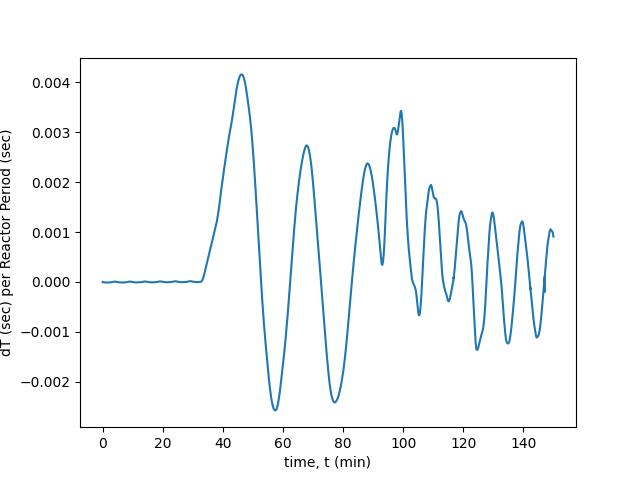
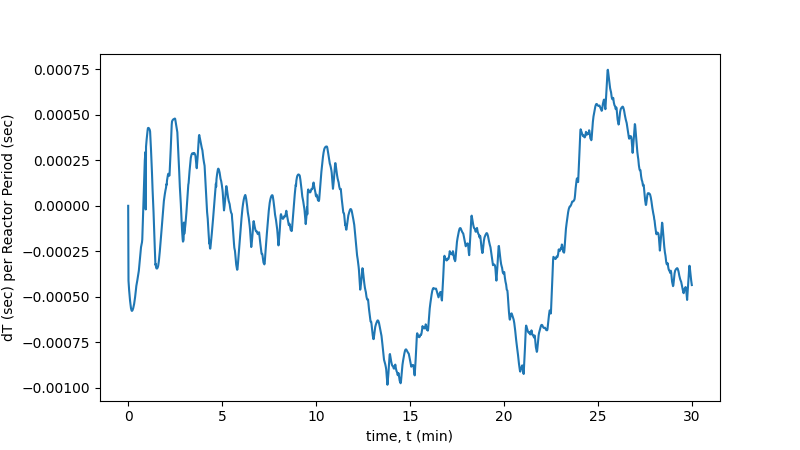
Major Plot Cleanup

diff --git a/plots.py b/plots.py
@@ -1,9 +1,12 @@
 import matplotlib.pyplot as plt
+import matplotlib as mpl
+from matplotlib.ticker import FormatStrFormatter,ScalarFormatter,FuncFormatter
+
 import numpy as np
 import glob
 from PIL import Image
 import os
-import TempProfile, functions, loop
+import TempProfile, functions, loop, control
 
 def x_vs_Tx(path,t,T_x,Tmin,Tmax):
     ymin=Tmin
@@ -24,31 +27,58 @@ def x_vs_Tx(path,t,T_x,Tmin,Tmax):
     plt.close()
 
 def t_vs_Q(t,Qhex,Qcore):
-    plt.figure()
-    plt.plot(t/60,Qhex,label='Heat Exchanger')
+    plt.figure(figsize=(8,4.5))
+    plt.gca().yaxis.set_major_formatter(FormatStrFormatter('%.2f MW'))
+    plt.plot(t/60,Qhex/1e3,label='Heat Exchanger')
     if Qcore != None:
-        plt.plot(t/60,Qcore, label='Core')
+        Qcore = np.array(Qcore)
+        plt.plot(t/60,Qcore/1e3, label='Core')
         plt.legend(loc='best')
     plt.xlabel('time, t (min)')
-    plt.ylabel('Heat Exchanger Power Demand at time t, Q_hex(t) (kW)')
+    plt.ylabel('Power duty and load vs. time')
     plt.savefig("img/t_vs_Qt.png")
     plt.clf()
     plt.close()
 
 def t_vs_reac(t,Flow,Temp,Total):
-    plt.figure()
-    plt.plot(t/60,Flow,label='Flow Reactivity')
-    plt.plot(t/60,Temp, label='Temperature Reactivity')
-    plt.plot(t/60,Total, label='Reactivity')
+    plt.figure(figsize=(8,4.5))
+    plt.gca().yaxis.set_major_formatter(FormatStrFormatter('%d pcm'))
+    Flow,Temp,Total = np.array(Flow),np.array(Temp),np.array(Total)
+    plt.plot(t/60,Flow*1e5,label='Flow Reactivity')
+    plt.plot(t/60,Temp*1e5, label='Temperature Reactivity')
+    plt.plot(t/60,Total*1e5, label='Reactivity')
     plt.xlabel('time, t (min)')
     plt.ylabel('Reactivity')
     plt.legend(loc='best')
     plt.savefig("img/t_vs_reac.png")
     plt.clf()
     plt.close()
+    
+def reac_phase(Flow,Temp):
+    plt.figure()
+    plt.gca().yaxis.set_major_formatter(FormatStrFormatter('%.d pcm'))
+    plt.gca().xaxis.set_major_formatter(FormatStrFormatter('%.d pcm'))
+    Flow,Temp = np.array(Flow)*1e5,np.array(Temp)*1e5
+    max = np.max(np.array([np.max(Temp),-np.max(Flow)]))
+    min = np.min(np.array([np.min(Temp),-np.min(Flow)]))
+    
+    plt.plot(Temp,Flow)
+    plt.plot([max,min],[-max,-min],linestyle=':',color='black')
+    plt.scatter(Temp[0],Flow[0],color='green',zorder=10)
+    plt.scatter(Temp[-1],Flow[-1],color='red',zorder=10)
+
+    plt.xlabel('Temperature Reactivity')
+    plt.ylabel('Flow Reactivity')
+    plt.locator_params(axis='both', nbins=6)
+     
+    plt.tight_layout()
+    plt.title('Passive Feedback Phase Space')
+    plt.savefig("img/reac_phase.png",bbox_inches='tight')
+    plt.clf()
+    plt.close()
 
 def t_vs_exp(t,exp):
-    plt.figure()
+    plt.figure(figsize=(8,4.5))
     plt.plot(t/60,exp)
     plt.xlabel('time, t (min)')
     plt.ylabel('dT (sec) per Reactor Period (sec)')
@@ -57,22 +87,29 @@ def t_vs_exp(t,exp):
     plt.close()
 
 def t_vs_velo(t,v):
-    plt.figure()
-    plt.plot(t/60,v)
+    plt.figure(figsize=(8,4.5))
+    plt.gca().yaxis.set_major_formatter(FormatStrFormatter('%.2f cm/s'))
+    v=np.array(v)
+    plt.plot(t/60,v*100)
     plt.xlabel('time, t (min)')
-    plt.ylabel('velocity, v (m/sec)')
+    plt.ylabel('velocity, v (cm/sec)')
     plt.savefig("img/t_vs_velocity.png")
     plt.clf()
     plt.close()
 
 def t_vs_angle(t,theta):
-    plt.figure()
-    plt.ylim(120.139,120.141)
-    plt.xlim(t[0],t[-1]/60)
+    offset = np.floor(control.bias)
+    theta -= offset
+    fig,ax = plt.subplots(figsize=(8,4.5))
+    ax.yaxis.set_major_formatter(FormatStrFormatter('%.3f°'))
+    #plt.ylim(np.floor(np.min(theta)),t[-1]/60)
     #plt.yticks(np.array([0,15,30,45,60,75,90,105,120,135,150,165,180]))
+    plt.text(0,1.01,f'+{offset}°',transform=ax.transAxes)
     plt.plot(t/60,theta)
+
     plt.xlabel('time, t (min)')
-    plt.ylabel("Control Drum Orientation (°)")
+    plt.ylabel("Control Drum Orientation")
+
     plt.savefig("img/t_vs_angle.png")
     plt.clf()
     plt.close()

diff --git a/simulation.py b/simulation.py
@@ -12,7 +12,7 @@ plots.kill()
 '''
 The algorithm function in the file initial.py uses binary search to identify the cold temperature that when paired with a hot temperature of 700 C gives the desired power output. It uses the natural circulation flow rate, heat capacity, and temperature difference to calculate the power for a given cold temperature, and adjusts the cold temperature as needed based on the result. 
 '''
-Q = 100
+Q = 8000 #kW
 if Q <=0:
     print('The reactor power is calculated using an exponential. Use a positive initial power. This code cannot simulate bringing up to hot-standby')
     exit()
@@ -36,10 +36,10 @@ plots.x_vs_Tx("img/animateTx_t/t-0.png",0.0,T_x,T_cold,T_hot)
 '''
 Q0 is calculated above, Q1 is the power after the first power change, Q2 is the power after the second power change. tlen is the total time in seconds of the simulation (3600sec = 1hr). t01 is the time over which the first power change occurs (ramp function ~ use t01 = 0 for step response). t1 is the time in seconds for which the reactor is held at Q1. t12 is the time in seconds over which the second power change occurs. t2 is calculated and is the time between the end of the second power change and the end of the simulation
 '''
-Q1,Q2 = 1000,10000
+Q1,Q2 = 8000,6000
 #Q1,Q2 = Q0,Q0
 
-t0,t01,t1,t12,t2 = 1800,1800,1800,1800,1800
+t0,t01,t1,t12,t2 = 0,0,600,600,600
 tlen= t0+t01+t1+t12+t2
 
 print('set up HEX transient')
@@ -112,12 +112,13 @@ plots.t_vs_reac(t,Freac_t,Treac_t,reac_t)
 plots.t_vs_exp(t,exponent)
 plots.t_vs_velo(t,v_t)
 plots.t_vs_angle(t,CDtheta_t)
+plots.reac_phase(Freac_t,Treac_t)
 
 print('plotting temperature profiles')
 Tmin = np.min(np.array(T_x_t))
 Tmax = np.max(np.array(T_x_t))
 
-#exit()
+exit()
 
 for step, T_x in tqdm(zip(t[1:],T_x_t),total=len(T_x_t)):
     if step*params.dt%60 ==0:

diff --git a/functions.py b/functions.py
@@ -83,7 +83,7 @@ def Velo(T_x):                                 #input Celcius
     if v_squared<0.01**2:    v_squared=0.01**2
     if v_squared>0.15**2:    v_squared=0.15**2
     v = np.sqrt(v_squared)   #output m/s
-    return 0.019#v# 0.05 #m/s
+    return v# 0.05 #m/s
 #___________________________________________________________________________
 
 
